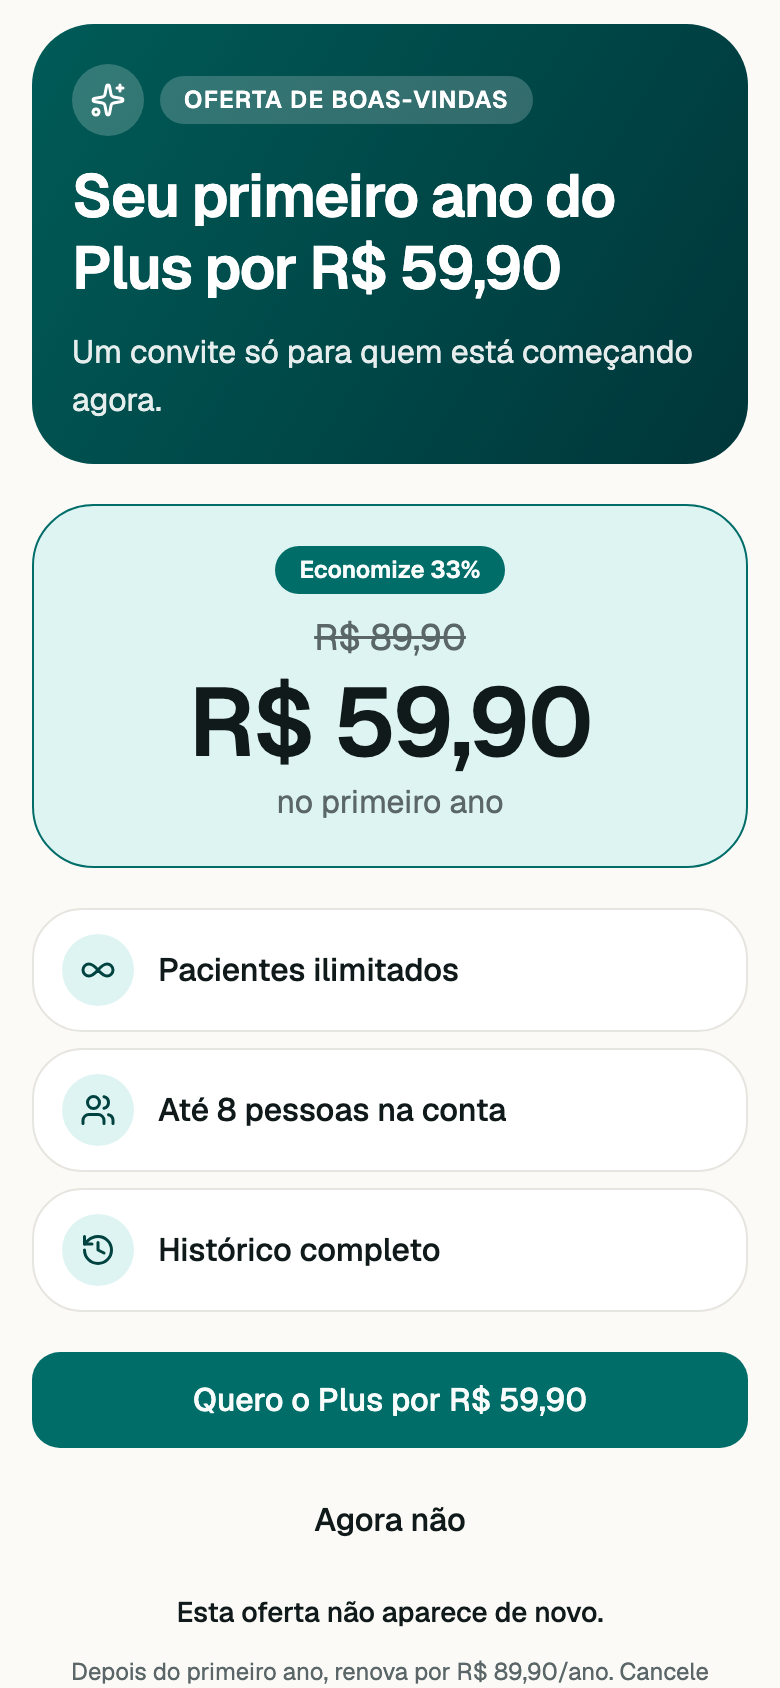
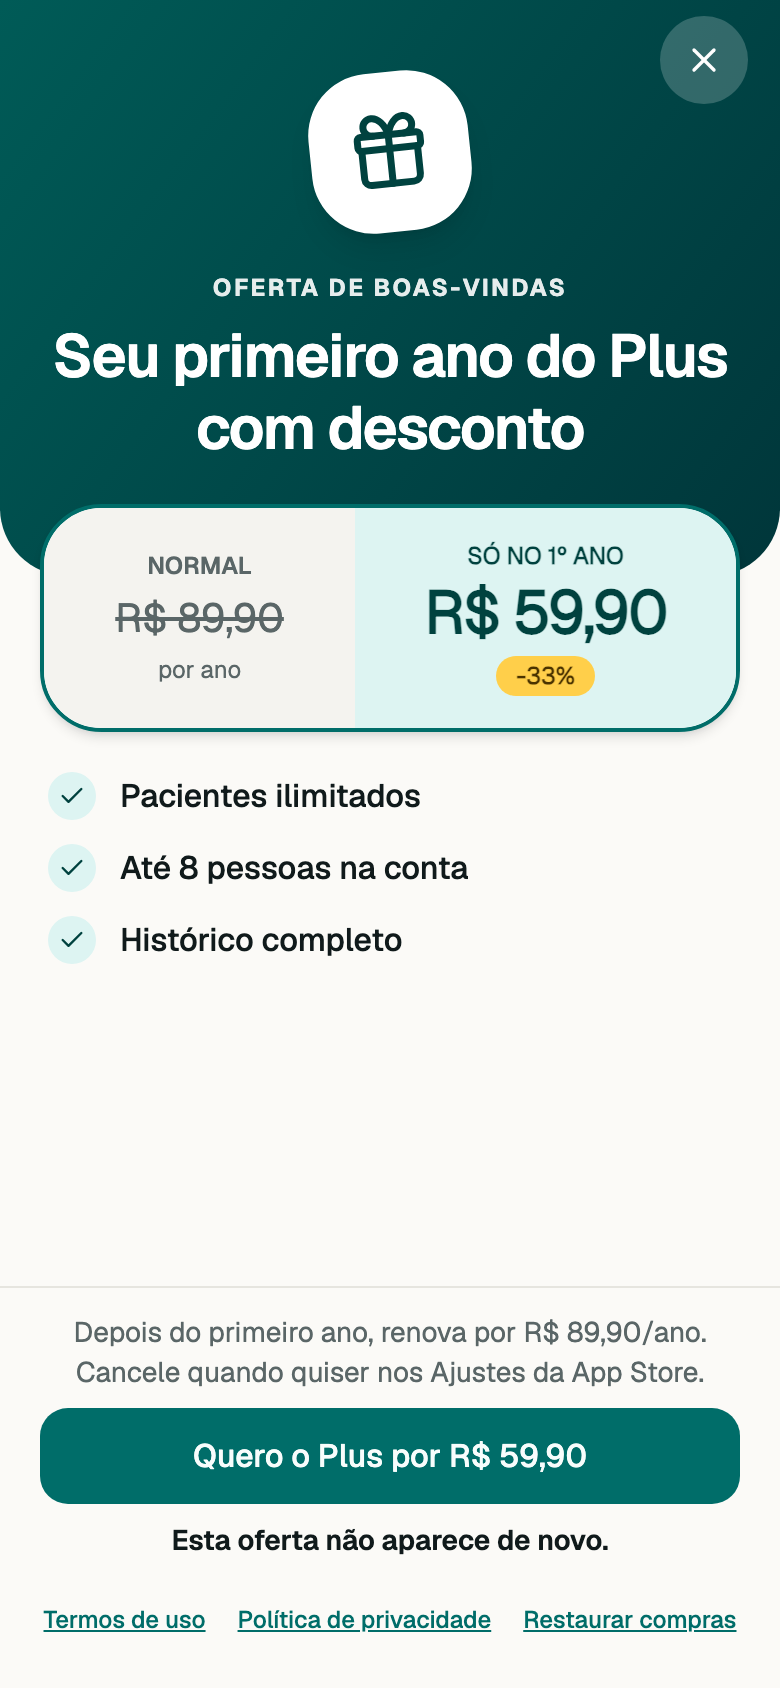
feat(app): oferta de boas-vindas no layout 'presente' (cartão normal x 1º ano, botão e avisos fixos na base)

diff --git a/apps/app/src/app/oferta-boas-vindas.tsx b/apps/app/src/app/oferta-boas-vindas.tsx
@@ -1,6 +1,8 @@
 import { useEffect, useRef, useState } from "react";
 import { ActivityIndicator, Linking, Pressable, ScrollView, View } from "react-native";
 import { useRouter } from "expo-router";
+import { LinearGradient } from "expo-linear-gradient";
+import { Check, Gift, X } from "lucide-react-native";
 import { useSafeAreaInsets } from "react-native-safe-area-context";
 import { errorMessage } from "@/lib/api/errors";
 import { useMarkWelcomeOfferSeen } from "@/lib/home-queries";
@@ -8,11 +10,11 @@ import { useMe } from "@/lib/me-query";
 import { getWelcomeOffer, purchase, restore, type WelcomeOffer } from "@/lib/purchases";
 import { afterPurchase } from "@/lib/subscription-queries";
 import { PRIVACY_URL, TERMS_URL } from "@/components/legal-note";
-import { PlusBenefits } from "@/components/plus-benefits";
-import { PlusHero } from "@/components/plus-hero";
+import { Icon } from "@/components/ui/icon";
 import { Button } from "@/components/ui/button";
 import { Text } from "@/components/ui/text";
 import { toast } from "@/components/ui/toast";
+import { useColors } from "@/theme/colors";
 
 /**
  * Oferta de boas-vindas do Plus: o anual com preço de lançamento no 1º ano, exibida UMA vez (a Hoje a abre na primeira vez).
@@ -22,6 +24,7 @@ import { toast } from "@/components/ui/toast";
 export default function OfertaBoasVindas() {
   const router = useRouter();
   const insets = useSafeAreaInsets();
+  const colors = useColors();
   const orgId = useMe().data?.orgId;
   const markSeen = useMarkWelcomeOfferSeen();
   const [offer, setOffer] = useState<WelcomeOffer | null>(null);
@@ -90,45 +93,76 @@ export default function OfertaBoasVindas() {
   }
 
   return (
-    <ScrollView className="flex-1 bg-background" contentContainerStyle={{ alignItems: "center", padding: 16, paddingTop: insets.top + 12, paddingBottom: insets.bottom + 24 }}>
-      <View style={{ width: "100%", maxWidth: 560, gap: 20 }}>
-        <PlusHero eyebrow="Oferta de boas-vindas" title={`Seu primeiro ano do Plus por ${offer.priceString}`} subtitle="Um convite só para quem está começando agora." />
-
-        <View className="items-center gap-1 rounded-3xl border border-primary bg-brand-soft p-5">
-          {offer.savingsPercent ? (
-            <View className="mb-1 rounded-full bg-primary px-3 py-1">
-              <Text className="text-xs font-semibold text-primary-foreground">{`Economize ${offer.savingsPercent}%`}</Text>
+    <View className="flex-1 bg-background">
+      <ScrollView className="flex-1" contentContainerStyle={{ paddingBottom: 16 }}>
+        <View className="overflow-hidden rounded-b-[34px]">
+          <LinearGradient colors={[colors.heroFrom, colors.heroTo]} start={{ x: 0, y: 0 }} end={{ x: 1, y: 1 }} style={{ alignItems: "center", paddingTop: insets.top + 36, paddingBottom: 56, paddingHorizontal: 24, gap: 8 }}>
+            <View className="size-20 items-center justify-center rounded-3xl bg-white shadow-lg" style={{ transform: [{ rotate: "-6deg" }] }}>
+              <Icon icon={Gift} color="brandInk" size={42} />
             </View>
-          ) : null}
-          <Text style={{ textDecorationLine: "line-through" }} className="text-lg text-muted-foreground">{offer.regularPriceString}</Text>
-          <Text className="text-5xl font-semibold tracking-tight">{offer.priceString}</Text>
-          <Text className="text-base text-muted-foreground">no primeiro ano</Text>
+            <Text className="mt-3 text-xs font-bold uppercase tracking-widest text-white/90">Oferta de boas-vindas</Text>
+            <Text accessibilityRole="header" className="text-center text-3xl font-semibold leading-9 tracking-tight text-white">Seu primeiro ano do Plus com desconto</Text>
+          </LinearGradient>
         </View>
+        <Pressable
+          accessibilityRole="button" accessibilityLabel="Agora não" disabled={busy} onPress={() => router.back()}
+          style={{ position: "absolute", right: 16, top: insets.top + 8 }} className="size-11 items-center justify-center rounded-full bg-white/20 active:bg-white/30"
+        >
+          <Icon icon={X} color="#ffffff" size={20} />
+        </Pressable>
 
-        <PlusBenefits />
+        <View style={{ alignSelf: "center", width: "100%", maxWidth: 560, paddingHorizontal: 20, gap: 20 }}>
+          <View className="-mt-9 flex-row overflow-hidden rounded-3xl border-2 border-primary bg-card shadow-md">
+            <View className="flex-1 items-center justify-center gap-1 bg-muted px-2 py-4">
+              <Text className="text-xs font-semibold uppercase text-muted-foreground">Normal</Text>
+              <Text style={{ textDecorationLine: "line-through" }} className="text-xl text-muted-foreground">{offer.regularPriceString}</Text>
+              <Text className="text-xs text-muted-foreground">por ano</Text>
+            </View>
+            <View className="flex-[1.25] items-center justify-center gap-0.5 bg-brand-soft px-2 py-4">
+              <Text className="text-xs font-extrabold uppercase text-brand-ink">Só no 1º ano</Text>
+              <Text className="text-3xl font-extrabold tracking-tight text-brand-ink">{offer.priceString}</Text>
+              {offer.savingsPercent ? (
+                <View style={{ backgroundColor: "#ffcf4a" }} className="mt-0.5 rounded-full px-2.5 py-0.5">
+                  <Text style={{ color: "#4a3300" }} className="text-xs font-extrabold">{`-${offer.savingsPercent}%`}</Text>
+                </View>
+              ) : null}
+            </View>
+          </View>
 
-        <View className="gap-3">
+          <View className="gap-3 px-1">
+            {["Pacientes ilimitados", "Até 8 pessoas na conta", "Histórico completo"].map((t) => (
+              <View key={t} className="flex-row items-center gap-3">
+                <View className="size-6 items-center justify-center rounded-full bg-brand-soft">
+                  <Icon icon={Check} color="brandInk" size={14} />
+                </View>
+                <Text className="flex-1 text-base font-medium">{t}</Text>
+              </View>
+            ))}
+          </View>
+        </View>
+      </ScrollView>
+
+      <View style={{ paddingBottom: insets.bottom + 12, paddingHorizontal: 20, paddingTop: 12 }} className="items-center gap-2 border-t border-border bg-background">
+        <View style={{ width: "100%", maxWidth: 560 }} className="gap-2">
           {error ? <Text className="text-sm text-destructive">{error}</Text> : null}
-          <Button size="lg" loading={busy} onPress={() => void buy()} accessibilityLabel={`Quero o Plus por ${offer.priceString}`}>{`Quero o Plus por ${offer.priceString}`}</Button>
-          <Button variant="ghost" size="lg" disabled={busy} onPress={() => router.back()} accessibilityLabel="Agora não">Agora não</Button>
-          <Text className="text-center text-sm font-medium">Esta oferta não aparece de novo.</Text>
-          <Text className="text-center text-xs text-muted-foreground">
+          <Text className="text-center text-sm text-muted-foreground">
             {`Depois do primeiro ano, renova por ${offer.regularPriceString}/ano. Cancele quando quiser nos Ajustes da App Store.`}
           </Text>
-        </View>
-
-        <View className="items-center">
-          <Button variant="ghost" size="lg" disabled={busy} onPress={() => void restorePurchases()} accessibilityLabel="Restaurar compras">Restaurar compras</Button>
-          <View className="flex-row justify-center gap-6">
+          <Button size="lg" loading={busy} onPress={() => void buy()} accessibilityLabel={`Quero o Plus por ${offer.priceString}`}>{`Quero o Plus por ${offer.priceString}`}</Button>
+          <Text className="text-center text-sm font-semibold">Esta oferta não aparece de novo.</Text>
+          <View className="flex-row flex-wrap items-center justify-center gap-x-4">
             <Pressable accessibilityRole="link" accessibilityLabel="Termos de uso" onPress={() => { void Linking.openURL(TERMS_URL); }} className="min-h-11 items-center justify-center">
               <Text className="text-xs font-medium text-link underline">Termos de uso</Text>
             </Pressable>
             <Pressable accessibilityRole="link" accessibilityLabel="Política de privacidade" onPress={() => { void Linking.openURL(PRIVACY_URL); }} className="min-h-11 items-center justify-center">
               <Text className="text-xs font-medium text-link underline">Política de privacidade</Text>
             </Pressable>
+            <Pressable accessibilityRole="button" accessibilityLabel="Restaurar compras" disabled={busy} onPress={() => void restorePurchases()} className="min-h-11 items-center justify-center">
+              <Text className="text-xs font-medium text-link underline">Restaurar compras</Text>
+            </Pressable>
           </View>
         </View>
       </View>
-    </ScrollView>
+    </View>
   );
 }

diff --git a/apps/app/tests/welcome-offer-screen.test.tsx b/apps/app/tests/welcome-offer-screen.test.tsx
@@ -34,15 +34,23 @@ beforeEach(() => {
 });
 
 describe("oferta de boas-vindas", () => {
-  test("mostra o preço de lançamento, o preço normal riscado, a economia e a regra de uma vez só", async () => {
+  test("mostra o preço normal riscado ao lado do preço de lançamento, o desconto e a regra de uma vez só", async () => {
     await renderApp(<Oferta />);
     expect(await screen.findByText("Oferta de boas-vindas")).toBeOnTheScreen();
-    expect(screen.getByText("R$ 59,90")).toBeOnTheScreen();
+    expect(screen.getByText("Seu primeiro ano do Plus com desconto")).toBeOnTheScreen();
+    expect(screen.getByText("Normal")).toBeOnTheScreen();
     expect(screen.getByText("R$ 89,90")).toBeOnTheScreen();
-    expect(screen.getByText("no primeiro ano")).toBeOnTheScreen();
-    expect(screen.getByText("Economize 33%")).toBeOnTheScreen();
+    expect(screen.getByText("Só no 1º ano")).toBeOnTheScreen();
+    expect(screen.getByText("R$ 59,90")).toBeOnTheScreen();
+    expect(screen.getByText("-33%")).toBeOnTheScreen();
     expect(screen.getByText("Esta oferta não aparece de novo.")).toBeOnTheScreen();
     for (const t of ["Pacientes ilimitados", "Até 8 pessoas na conta", "Histórico completo"]) expect(screen.getByText(t)).toBeOnTheScreen();
+  });
+
+  test("sem o subtítulo antigo (espaço vertical para o preço e o botão)", async () => {
+    await renderApp(<Oferta />);
+    await screen.findByText("Oferta de boas-vindas");
+    expect(screen.queryByText(/Um convite só para quem está começando agora/)).toBeNull();
   });
 
   test("diz a verdade sobre a renovação e o cancelamento (exigência da Apple)", async () => {
@@ -128,10 +136,10 @@ describe("oferta de boas-vindas", () => {
     expect(mockRouter.back).toHaveBeenCalled();
   });
 
-  test("sem número da economia (a loja não informou), não mostra 'Economize'", async () => {
+  test("sem número do desconto (a loja não informou), não mostra a pílula de porcentagem", async () => {
     mockPurchases.getWelcomeOffer.mockResolvedValue({ ...WELCOME, savingsPercent: null });
     await renderApp(<Oferta />);
     await screen.findByText("Oferta de boas-vindas");
-    expect(screen.queryByText(/Economize/)).toBeNull();
+    expect(screen.queryByText(/%/)).toBeNull();
   });
 });
